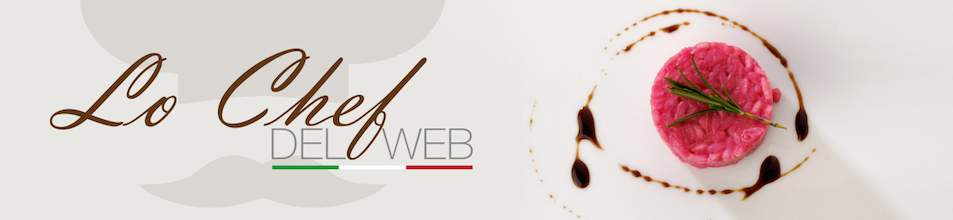
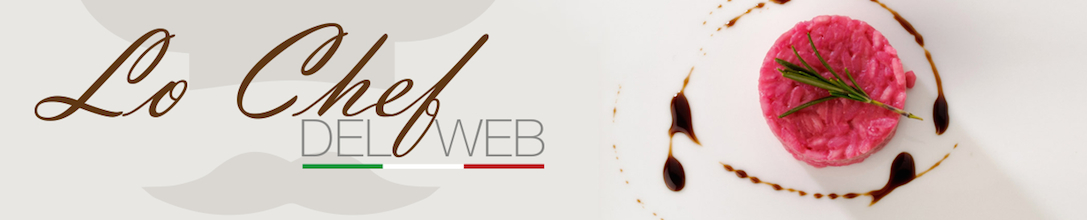
nuove dim home

diff --git a/public_html/css/home_style.css b/public_html/css/home_style.css
@@ -3,7 +3,7 @@ body{
 }
 #header{
 	background-image: url(../images/home.jpg);
-	width:935px;
+	width:1087px;
 	height:220px;
 	margin:auto;
 	background-repeat: no-repeat;
@@ -13,7 +13,7 @@ body{
 	background-color:#5f3714;
 	color:white;
 	height:25pt;
-	width:935px;
+	width:1087px;
 	margin:auto;
 	margin-bottom:0.5%;
 }
@@ -137,7 +137,7 @@ body{
 	color:white;
 	margin:auto;
 	margin-top:0.5%;
-	width:935px;
+	width:1087px;
 	height:40px;
 }
 #footerImg1{
